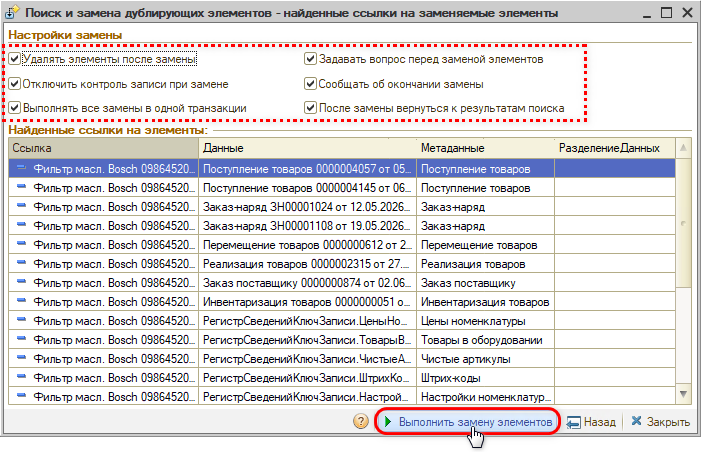
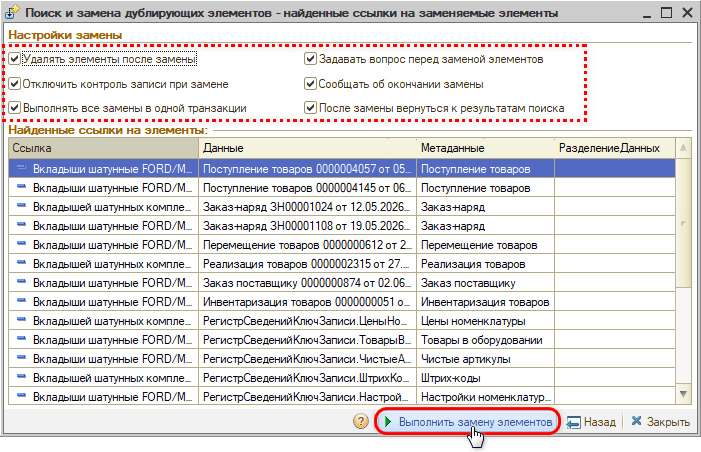
Статья «Поиск и замена дублирующихся записей» (Katya): пример переделан – поиск по № по кат. с отбором по производителю (MAHLE, разные написания производителя одной детали); настройка списка (колонки, перестановка); удаление лишних записей – текстом; скриншоты 03–07 новые, 08 – новые ссылки (Катя, 2

Changed region(s): [[0.03, 0.3407, 0.2696, 0.8982]]

diff --git a/articles/5S AUTO/Администрирование и настройка системы/Поиск и замена дублирующихся записей/poisk-i-zamena-dubliruyuschikhsya-zapisey.md b/articles/5S AUTO/Администрирование и настройка системы/Поиск и замена дублирующихся записей/poisk-i-zamena-dubliruyuschikhsya-zapisey.md
@@ -33,17 +33,21 @@
 
 ### Пример работы
 
-Рассмотрим пример поиска дублей в справочнике «Номенклатура».
+Рассмотрим пример поиска дублей в справочнике «Номенклатура» по номеру по каталогу.
+
+Если искать дубли только по реквизиту «№ по кат.» во всем справочнике, список групп получится слишком большим, и в нем трудно понять, что является дублями, а что нет: одинаковые номера по каталогу встречаются у разных производителей. Поэтому поиск удобно ограничить производителем.
 
 На форме обработки:
 
 - в поле *Справочник* выбираем значение «Номенклатура»,
 - в поле *Реквизит поиска* выбираем значение «№ по кат.» (можно искать по любому из реквизитов справочника),
 - в поле *Режим поиска* выбираем значение «По равному значению реквизита» (поиск дублей по точному совпадению),
-- в табличной части «Дополнительный отбор для поиска» кнопкой «Добавить» задаем условия отбора: «Элемент.Это группа» – «Равно» – «Нет» и «Элемент.Предопределенный» – «Равно» – «Нет», чтобы в поиск не попали группы и предопределенные элементы. При необходимости можно добавить и другие условия (например, «Тип номенклатуры» не равен «Масла») или ограничить поиск конкретным значением (например, «Элемент.Наименование» содержит название товара),
+- в табличной части «Дополнительный отбор для поиска» кнопкой «Добавить» задаем условия отбора: «Элемент.Это группа» – «Равно» – «Нет» и «Элемент.Предопределенный» – «Равно» – «Нет», чтобы в поиск не попали группы и предопределенные элементы, а также «Элемент.Производитель.Наименование» – «Содержит» – «MAHLE», чтобы искать дубли только среди товаров этого производителя,
 - нажимаем кнопку «Найти дубли»:
 
-  ![Переход к поиску дублей по номенклатуре](attachments/03-perehod-k-poisku-dubley-po-nomenklature-1.png)
+  ![Переход к поиску дублей по номенклатуре](attachments/03-perehod-k-poisku-dubley-po-nomenklature.png)
+
+Производитель одной и той же детали может быть заведен по-разному: например, «MAHLE», «MAHLE ORIGINAL», «Mahle/Knecht». Условие «Содержит» находит все такие варианты. Если производитель записан по-русски, такие карточки в поиск не попадут – чтобы найти все карточки конкретной детали независимо от написания производителя, задаем отбор по ее номеру по каталогу.
 
 > [!WARNING]
 > Нельзя объединять группу с элементом (например, папку номенклатуры с карточкой товара) и предопределенные элементы – они нужны для работы программы. Такое объединение может нарушить целостность данных, и программа перестанет корректно работать во всей базе. Условия отбора «Элемент.Это группа» и «Элемент.Предопределенный» необязательны, но рекомендуем их добавлять, чтобы такие элементы случайно не попали в поиск.
@@ -51,29 +55,29 @@
 Режим «По похожим словам» находит значения, которые похожи, но не совпадают точно, например наименования с опечаткой. Ползунок «Настройка уровня сходства слов» задает, насколько сильно могут различаться значения: чем ближе он к «Значительно отличаются», тем больше элементов попадет в одну группу.
 
 > [!NOTE]
-> Не рекомендуем искать в режиме «По похожим словам», особенно с ползунком, сдвинутым к «Значительно отличаются»: в одну группу попадают разные элементы с похожими значениями. Кроме того, без дополнительного отбора обработка проверяет весь справочник, и в большой базе поиск идет долго (программа на это время перестает отвечать). Чтобы поиск прошел быстрее, ограничьте его отбором, например по наименованию.
+> Не рекомендуем искать в режиме «По похожим словам», особенно с ползунком, сдвинутым к «Значительно отличаются»: в одну группу попадают разные элементы с похожими значениями. Кроме того, без дополнительного отбора обработка проверяет весь справочник, и в большой базе поиск идет долго (программа на это время перестает отвечать). Чтобы поиск прошел быстрее, ограничьте его отбором, например по производителю.
 
 Если дубли не найдены, проверяем, что значения реквизита поиска у элементов совпадают полностью и в отборе указаны так же, как в элементах.
 
-В результате отображаются дублирующиеся записи, сгруппированные по реквизиту поиска. При клике на группу дублей в нижней табличной части детально отображаются записи справочника, совпадающие по реквизиту поиска (в данном случае по «№ по кат.»):
+В результате отображаются дублирующиеся записи, сгруппированные по реквизиту поиска. При клике на группу дублей в нижней табличной части детально отображаются записи справочника, совпадающие по реквизиту поиска (в данном случае по «№ по кат.»). В примере в группе «014 PS 20800 000» три карточки одной и той же детали – вкладышей шатунных: наименования и производители («Mahle/Knecht», «MAHLE ORIGINAL», «MAHLE») заведены по-разному, но номер по каталогу один:
 
-![Найденные дубли по номенклатуре](attachments/04-naydennye-dubli-po-nomenklature-1.png)
+![Найденные дубли по номенклатуре](attachments/04-naydennye-dubli-po-nomenklature.png)
 
-Внимательно просматриваем карточки номенклатуры дублей: чтобы открыть карточку, дважды щелкаем по строке в колонке «Объект» и нажимаем кнопку «Открыть». Совпадение реквизита поиска еще не означает, что это дубль: в примере у воздушного фильтра тот же номер по каталогу, что и у масляного.
+Состав колонок нижней таблицы можно настроить: в контекстном меню таблицы выбираем «Настройка списка» и отмечаем нужные колонки – в примере выведена колонка «Производитель». Колонки можно переставлять местами, перетаскивая их заголовки мышью:
 
-При необходимости кнопкой «Удалить» убираем из списка те записи, которые не считаем дублирующимися (в примере удаляем воздушный фильтр и оставляем два дубля масляного фильтра):
+![Настройка списка](attachments/05-nastroyka-spiska.png)
 
-![Убранные дубли в найденных записях](attachments/05-ubrannye-dubli-v-naydennyh-zapisyah-1.png)
+Внимательно просматриваем карточки номенклатуры дублей: чтобы открыть карточку, дважды щелкаем по строке в колонке «Объект» и нажимаем кнопку «Открыть». Совпадение реквизита поиска еще не означает, что это дубль: под одним номером по каталогу может оказаться другая деталь, например если номер введен с ошибкой. Такие записи кнопкой «Удалить» убираем из списка – в примере все три карточки являются дублями, поэтому оставляем их.
 
 Если в элементе-дубле есть данные, которых нет в правильном элементе, переносим их в правильный элемент до объединения.
 
-Устанавливаем курсор на правильную запись и нажимаем кнопку «Указать как правильный»:
+Устанавливаем курсор на правильную запись (в примере – первая карточка) и нажимаем кнопку «Указать как правильный»:
 
-![Указание правильного среди дублей](attachments/06-ukazanie-pravilnogo-sredi-dubley-1.png)
+![Указание правильного среди дублей](attachments/06-ukazanie-pravilnogo-sredi-dubley.png)
 
 Соглашаемся заменить ссылки с неправильного на правильный элемент справочника в документах, регистрах и прочих объектах программы:
 
-![Принятие замены ссылок на дубли](attachments/07-prinyatie-zameny-ssylok-na-dubli-1.png)
+![Принятие замены ссылок на дубли](attachments/07-prinyatie-zameny-ssylok-na-dubli.png)
 
 В результате отображаются ссылки на данные, в которых произойдет замена, и настройки замены. По умолчанию все флажки включены: например, при включенном флажке «Удалять элементы после замены» элемент-дубль будет удален. При необходимости настройки замены можно изменить. Для замены нажимаем кнопку «Выполнить замену элементов»:
 
@@ -81,7 +85,7 @@
 
 Подтверждаем замену и удаление элементов справочника.
 
-ГОТОВО! Дублирующийся элемент удален и ссылки на него заменены на правильный элемент.
+ГОТОВО! Дублирующиеся элементы удалены, и ссылки на них заменены на правильный элемент.
 
 ## Что нельзя объединять
 
@@ -89,7 +93,7 @@
 
 - **предопределенные элементы** – например, организацию «-» в справочнике «Организации» или головное подразделение в справочнике «Подразделения компании». Они нужны для работы программы;
 - **группу с элементом** – например, папку номенклатуры с карточкой товара;
-- **элементы, которые только похожи**: однофамильцев с разными телефонами и автомобилями, товары с одинаковым номером по каталогу, но разных производителей или разного назначения. Совпадение реквизита поиска еще не означает, что это дубль.
+- **элементы, которые только похожи**: однофамильцев с разными телефонами и автомобилями, товары с одинаковым номером по каталогу, но разных производителей (а не разных написаний одного производителя) или разного назначения. Совпадение реквизита поиска еще не означает, что это дубль.
 
 > [!NOTE]
 > Если задвоилась не карточка клиента, а сделка, используйте обработку «Объединение процессов» – см. статью «[Объединение сделок](https://kb.5systems.ru/articles/5s-auto/crm/obedinenie-sdelok)».
